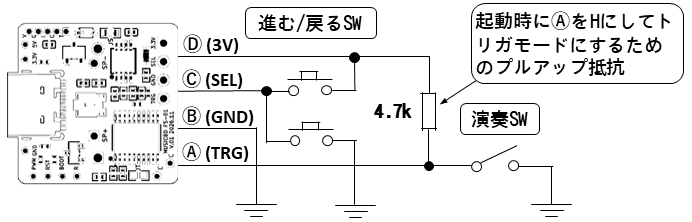
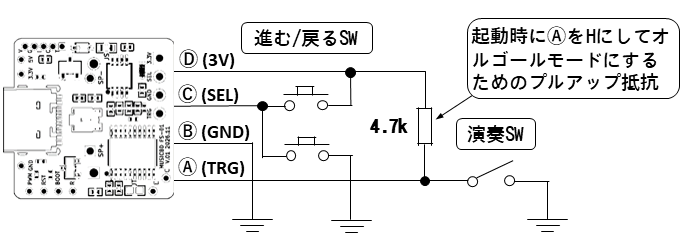
page2

Changed region(s): [[0.0, 0.0, 1.0, 1.0], [0.7664, 0.9189, 0.8277, 1.0], [0.4905, 0.9189, 0.5518, 1.0]]

diff --git a/fs-01/README.md b/fs-01/README.md
@@ -147,7 +147,7 @@ SONG(2).LEN=60             # 開始から60秒間演奏
 - [Web アプリを開く](https://hoshimilkali.github.io/kits/tools/ppgsynth_gzweb.html)
 ### ● 機能
 - Edge/Chrome 用の Web アプリです。
-- MIDI ファイルがどのように再生されるかを試聴できます。ブラウザ上で音色や演奏時間、演奏速度をアレンジできます。
+- MIDI ファイルが本機でどのように再生されるかを試聴できます。ブラウザ上で音色や演奏時間、演奏速度をアレンジできます。
 - 試聴・アレンジ後に MIDI ファイルを圧縮して、本モジュールに直接書き込めます。設定ファイル MIDI.TXT も同時に書き込めます。モジュールを USB 接続して「音楽ファイルを書き込み」「MIDI.TXT を書き込み」ボタンを押し、書き込み先のドライブを指定してください。
 - 単一の HTML ファイルです。ブラウザ内で動作し、ファイルは外部に送信されません。
 
@@ -163,7 +163,7 @@ SONG(2).LEN=60             # 開始から60秒間演奏
 <img src="images/phototr-r.png" width="20%" alt="フォトトランジスタ取付写真">
 
 - 画像のように、基板上にフォトトランジスタ (LED2, NJL7502L) を追加すると、明るいところで演奏を開始するオルゴールとして動作します。
-- スピーカーに [UGSM23A (秋月)](https://akizukidenshi.com/catalog/g/g109797/) を使用し、基板上の JPT のシルクのランドをショートしてください。 動作モードはオルゴールモードになります。モードセレクト端子(&#x24B8;)による曲の選択も可能です。
+- スピーカーに [UGSM23A (秋月)](https://akizukidenshi.com/catalog/g/g109797/) を使用し、基板上の JT のシルクのランドをショートしてください。 動作モードはオルゴールモードになります。モードセレクト端子(&#x24B8;)による曲の選択も可能です。
 
 ## ■ 詳細資料
 
